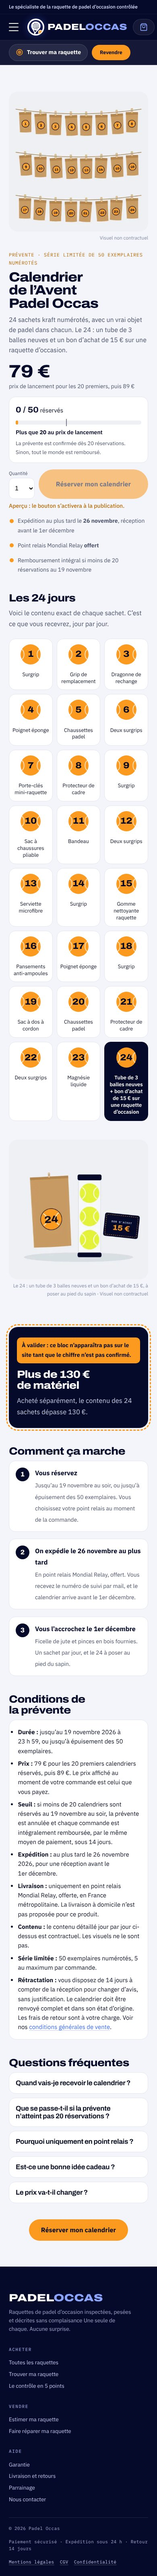
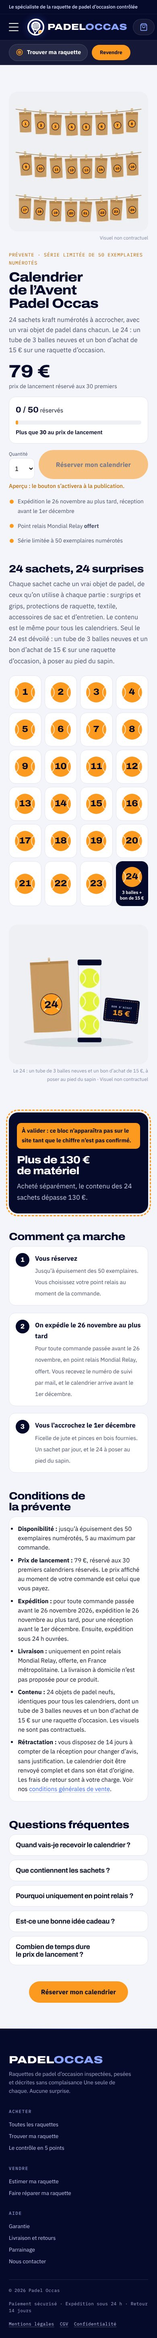
Calendrier de l'Avent v1.1.0 — 30 premiers à 79 €, sans seuil ni date de fin, contenu masqué, prompts images
Claude-Session: https://claude.ai/code/session_019D3zZFY3edwsYLJmSPcafF

diff --git a/padel-occas-avent/page-calendrier-avent-padel.html b/padel-occas-avent/page-calendrier-avent-padel.html
@@ -3,8 +3,8 @@
 [poc_avent_hero]
 
 <section class="poc-av-sec" id="contenu">
-<h2>Les 24 jours</h2>
-<p class="poc-av-intro">Voici le contenu exact de chaque sachet. C’est ce que vous recevrez, jour par jour.</p>
+<h2>24 sachets, 24 surprises</h2>
+<p class="poc-av-intro">Chaque sachet cache un vrai objet de padel, de ceux qu’on utilise à chaque partie : surgrips et grips, protections de raquette, textile, accessoires de sac et d’entretien. Le contenu est le même pour tous les calendriers. Seul le 24 est dévoilé : un tube de 3 balles neuves et un bon d’achat de 15&nbsp;€ sur une raquette d’occasion, à poser au pied du sapin.</p>
 [poc_avent_grille]
 [poc_avent_visuel n="2" legende="Le 24 : un tube de 3 balles neuves et un bon d’achat de 15 €, à poser au pied du sapin"]
 </section>
@@ -17,27 +17,28 @@
 <section class="poc-av-sec" id="fonctionnement">
 <h2>Comment ça marche</h2>
 <ol class="poc-av-etapes">
-<li><strong>Vous réservez</strong><span>Jusqu’au 19 novembre au soir, ou jusqu’à épuisement des 50 exemplaires. Vous choisissez votre point relais au moment de la commande.</span></li>
-<li><strong>On expédie le 26 novembre au plus tard</strong><span>En point relais Mondial Relay, offert. Vous recevez le numéro de suivi par mail, et le calendrier arrive avant le 1er&nbsp;décembre.</span></li>
-<li><strong>Vous l’accrochez le 1er&nbsp;décembre</strong><span>Ficelle de jute et pinces en bois fournies. Un sachet par jour, et le 24 à poser au pied du sapin.</span></li>
+<li><strong>Vous réservez</strong><span>Jusqu’à épuisement des 50 exemplaires. Vous choisissez votre point relais au moment de la commande.</span></li>
+<li><strong>On expédie le 26 novembre au plus tard</strong><span>Pour toute commande passée avant le 26 novembre, en point relais Mondial Relay, offert. Vous recevez le numéro de suivi par mail, et le calendrier arrive avant le 1er&nbsp;décembre.</span></li>
+<li><strong>Vous l’accrochez le 1er décembre</strong><span>Ficelle de jute et pinces en bois fournies. Un sachet par jour, et le 24 à poser au pied du sapin.</span></li>
 </ol>
 </section>
 
 <section class="poc-av-sec" id="conditions">
 <h2>Conditions de la prévente</h2>
 <ul class="poc-av-conditions">
-<li><strong>Durée :</strong> jusqu’au 19 novembre 2026 à 23&nbsp;h&nbsp;59, ou jusqu’à épuisement des 50 exemplaires.</li>
-<li><strong>Prix :</strong> 79 € pour les 20 premiers calendriers réservés, puis 89 €. Le prix affiché au moment de votre commande est celui que vous payez.</li>
-<li><strong>Seuil :</strong> si moins de 20 calendriers sont réservés au 19 novembre au soir, la prévente est annulée et chaque commande est intégralement remboursée, par le même moyen de paiement, sous 14 jours.</li>
-<li><strong>Expédition :</strong> au plus tard le 26 novembre 2026, pour une réception avant le 1er&nbsp;décembre.</li>
+<li><strong>Disponibilité :</strong> jusqu’à épuisement des 50 exemplaires numérotés, 5 au maximum par commande.</li>
+<li><strong>Prix de lancement :</strong> 79&nbsp;€, réservé aux 30 premiers calendriers réservés. Le prix affiché au moment de votre commande est celui que vous payez.</li>
+<li><strong>Expédition :</strong> pour toute commande passée avant le 26 novembre 2026, expédition le 26 novembre au plus tard, pour une réception avant le 1er&nbsp;décembre. Ensuite, expédition sous 24&nbsp;h ouvrées.</li>
 <li><strong>Livraison :</strong> uniquement en point relais Mondial Relay, offerte, en France métropolitaine. La livraison à domicile n’est pas proposée pour ce produit.</li>
-<li><strong>Contenu :</strong> le contenu détaillé jour par jour ci-dessus est contractuel. Les visuels ne le sont pas.</li>
-<li><strong>Série limitée :</strong> 50 exemplaires numérotés, 5 au maximum par commande.</li>
+<li><strong>Contenu :</strong> 24 objets de padel neufs, identiques pour tous les calendriers, dont un tube de 3 balles neuves et un bon d’achat de 15&nbsp;€ sur une raquette d’occasion. Les visuels ne sont pas contractuels.</li>
 <li><strong>Rétractation :</strong> vous disposez de 14 jours à compter de la réception pour changer d’avis, sans justification. Le calendrier doit être renvoyé complet et dans son état d’origine. Les frais de retour sont à votre charge. Voir nos <a href="/cgv/">conditions générales de vente</a>.</li>
 </ul>
 </section>
 
-<section class="poc-av-sec po-faq" id="questions"><h2>Questions fréquentes</h2><!-- poc:faq --><details><summary><h3>Quand vais-je recevoir le calendrier ?</h3></summary><p>Il part au plus tard le 26 novembre en point relais Mondial Relay. Comptez 2 à 4 jours de transport : il arrive avant le 1er&nbsp;décembre. Vous recevez le numéro de suivi par mail dès l’expédition.</p></details><details><summary><h3>Que se passe-t-il si la prévente n’atteint pas 20 réservations ?</h3></summary><p>Si moins de 20 calendriers sont réservés au 19 novembre au soir, la prévente est annulée et chaque commande est intégralement remboursée, par le même moyen de paiement, sous 14 jours. Vous n’avez rien à faire.</p></details><details><summary><h3>Pourquoi uniquement en point relais ?</h3></summary><p>C’est ce qui nous permet de vous offrir la livraison. Vous choisissez le point relais qui vous arrange au moment de la commande, près de chez vous ou de votre travail.</p></details><details><summary><h3>Est-ce une bonne idée cadeau ?</h3></summary><p>Oui, pour tout joueur ou joueuse de padel, débutant comme confirmé : ce sont des objets qu’on utilise à chaque partie. Pour l’offrir, choisissez un point relais proche de la personne et indiquez son nom comme destinataire.</p></details><details><summary><h3>Le prix va-t-il changer ?</h3></summary><p>Les 20 premiers calendriers sont à 79 €, les suivants à 89 €. Le compteur en haut de page indique combien il en reste au prix de lancement. Le prix affiché au moment de votre commande est celui que vous payez.</p></details><!-- /poc:faq --></section>
+<section class="poc-av-sec po-faq" id="questions">
+<h2>Questions fréquentes</h2>
+<!-- poc:faq --><details><summary><h3>Quand vais-je recevoir le calendrier ?</h3></summary><p>Pour toute commande passée avant le 26 novembre, il part le 26 novembre au plus tard en point relais Mondial Relay. Comptez 2 à 4 jours de transport : il arrive avant le 1er&nbsp;décembre. Vous recevez le numéro de suivi par mail dès l’expédition.</p></details><details><summary><h3>Que contiennent les sachets ?</h3></summary><p>Un vrai objet de padel dans chacun : surgrips et grips, protections de raquette, textile, accessoires de sac et d’entretien. On garde la surprise sur le détail. Le 24 est un tube de 3 balles neuves et un bon d’achat de 15&nbsp;€ sur une raquette d’occasion.</p></details><details><summary><h3>Pourquoi uniquement en point relais ?</h3></summary><p>C’est ce qui nous permet de vous offrir la livraison. Vous choisissez le point relais qui vous arrange au moment de la commande, près de chez vous ou de votre travail.</p></details><details><summary><h3>Est-ce une bonne idée cadeau ?</h3></summary><p>Oui, pour tout joueur ou joueuse de padel, débutant comme confirmé : ce sont des objets qu’on utilise à chaque partie. Pour l’offrir, choisissez un point relais proche de la personne et indiquez son nom comme destinataire.</p></details><details><summary><h3>Combien de temps dure le prix de lancement ?</h3></summary><p>Le prix de 79&nbsp;€ est réservé aux 30 premiers calendriers réservés. Le compteur en haut de page indique combien il en reste à ce prix.</p></details><!-- /poc:faq -->
+</section>
 
 <p class="poc-av-cta-bas"><a class="po-btn po-btn--rouge po-btn--lg" href="#reserver">Réserver mon calendrier</a></p>
 

diff --git a/padel-occas-avent/padel-occas-avent.php b/padel-occas-avent/padel-occas-avent.php
@@ -1,8 +1,8 @@
 <?php
 /**
  * Plugin Name: Padel Occas — Prévente Calendrier de l'Avent
- * Description: Prix de lancement automatique (79 € pour les 20 premiers, puis 89 €), compteur sur 50, fin de prévente le 19/11 au soir, point relais seul et offert, grille des 24 jours, lien d'aperçu secret, mise en avant accueil + menu.
- * Version:     1.0.0
+ * Description: Prix de lancement automatique (79 € pour les 30 premiers, puis 89 €), compteur sur 50, vente jusqu'à épuisement, point relais seul et offert, grille des 24 sachets, lien d'aperçu secret, mise en avant accueil + menu.
+ * Version:     1.1.0
  * Author:      Padel Occas
  * License:     GPL v2 or later
  */
@@ -16,11 +16,10 @@ class POC_Avent_Config {
     const SKU            = 'CAL-AVENT-2026';
     const PAGE_SLUG      = 'calendrier-avent-padel';
     const TOTAL          = 50;                     // exemplaires
-    const LANCEMENT_QTE  = 20;                     // les N premiers au prix de lancement
+    const LANCEMENT_QTE  = 30;                     // les N premiers au prix de lancement
     const PRIX_LANCEMENT = 79;
-    const PRIX           = 89;
-    const SEUIL          = 20;                     // en dessous au 19/11 : prévente annulée et remboursée
-    const FIN            = '2026-11-19 23:59:59';  // heure de Paris
+    const PRIX           = 89;                     // affiché seulement une fois les N premiers vendus
+    const EXPEDITION     = '2026-11-26';           // commandes passées avant : expédiées ce jour-là au plus tard
     const MAX_PAR_COMMANDE = 5;
 
     // Interrupteurs. Mettre true au moment de publier, false pour retirer.
@@ -31,7 +30,7 @@ class POC_Avent_Config {
     // Lien d'aperçu secret : /?page_id=<ID>&apercu=<jeton> (et /?apercu=<jeton> pour l'accueil)
     const APERCU = 'tfr_4MhWFUn95gNzG_2WP1DE';
 
-    /** Contenu contractuel, jour par jour */
+    /** Contenu jour par jour : non affiché sur la page (effet surprise), gardé pour la préparation */
     const JOURS = [
         1 => 'Surgrip', 2 => 'Grip de remplacement', 3 => 'Dragonne de rechange', 4 => 'Poignet éponge',
         5 => 'Chaussettes padel', 6 => 'Deux surgrips', 7 => 'Porte-clés mini-raquette', 8 => 'Protecteur de cadre',
@@ -61,7 +60,6 @@ class POC_Avent {
         add_filter( 'woocommerce_product_get_price',         [ $this, 'filter_price' ], 20, 2 );
         add_filter( 'woocommerce_product_get_regular_price', [ $this, 'filter_price' ], 20, 2 );
         add_filter( 'woocommerce_get_price_html',            [ $this, 'price_html' ], 20, 2 );
-        add_filter( 'woocommerce_is_purchasable',            [ $this, 'is_purchasable' ], 20, 2 );
         add_action( 'woocommerce_before_calculate_totals',   [ $this, 'cart_prices' ], 20 );
         add_filter( 'woocommerce_add_to_cart_validation',    [ $this, 'validate_qty' ], 10, 3 );
         add_filter( 'woocommerce_store_api_product_quantity_maximum', [ $this, 'store_api_max' ], 10, 2 );
@@ -114,13 +112,20 @@ class POC_Avent {
         return self::launch_left() > 0 ? POC_Avent_Config::PRIX_LANCEMENT : POC_Avent_Config::PRIX;
     }
 
-    public static function is_over() {
-        $fin = new DateTime( POC_Avent_Config::FIN, new DateTimeZone( 'Europe/Paris' ) );
-        return time() > $fin->getTimestamp();
+    public static function is_open() {
+        return self::sold() < POC_Avent_Config::TOTAL;
     }
 
-    public static function is_open() {
-        return ! self::is_over() && self::sold() < POC_Avent_Config::TOTAL;
+    /** Avant le jour d'expédition groupée ? */
+    public static function before_shipping_day() {
+        $j = new DateTime( POC_Avent_Config::EXPEDITION . ' 00:00:00', new DateTimeZone( 'Europe/Paris' ) );
+        return time() < $j->getTimestamp();
+    }
+
+    public static function shipping_text() {
+        return self::before_shipping_day()
+            ? 'Expédition le 26 novembre au plus tard, réception avant le 1er décembre'
+            : 'Expédition sous 24 h ouvrées';
     }
 
     public static function is_preview() {
@@ -145,13 +150,9 @@ class POC_Avent {
     public function price_html( $html, $product ) {
         if ( ! self::is_calendar( $product ) ) return $html;
         if ( self::launch_left() > 0 ) {
-            return sprintf( '%s <small>prix de lancement, puis %s</small>', self::eur( POC_Avent_Config::PRIX_LANCEMENT ), self::eur( POC_Avent_Config::PRIX ) );
+            return sprintf( '%s <small>prix de lancement réservé aux %d premiers</small>', self::eur( POC_Avent_Config::PRIX_LANCEMENT ), POC_Avent_Config::LANCEMENT_QTE );
         }
         return self::eur( POC_Avent_Config::PRIX );
-    }
-
-    public function is_purchasable( $ok, $product ) {
-        return self::is_calendar( $product ) && self::is_over() ? false : $ok;
     }
 
     /** Dans le panier : les places restantes au prix de lancement, le reste à 89 € */
@@ -189,7 +190,7 @@ class POC_Avent {
 
     public function cart_item_data( $data, $item ) {
         if ( self::is_calendar( $item['data'] ) ) {
-            $data[] = [ 'key' => 'Prévente', 'value' => 'expédition au plus tard le 26 novembre, en point relais (offert)' ];
+            $data[] = [ 'key' => 'Livraison', 'value' => self::shipping_text() . ', en point relais (offert)' ];
         }
         return $data;
     }
@@ -224,10 +225,7 @@ class POC_Avent {
         }
         if ( ! $has || ! $email || ! in_array( $email->id, [ 'customer_processing_order', 'customer_on_hold_order' ], true ) ) return;
 
-        $txt = sprintf(
-            'Prévente du Calendrier de l’Avent : expédition au plus tard le 26 novembre en point relais, pour une réception avant le 1er décembre. Si moins de %d calendriers sont réservés au 19 novembre au soir, la prévente est annulée et vous êtes intégralement remboursé.',
-            POC_Avent_Config::SEUIL
-        );
+        $txt = 'Calendrier de l’Avent Padel Occas : ' . lcfirst( self::shipping_text() ) . ', en point relais Mondial Relay.';
         if ( $plain_text ) {
             echo "\n" . $txt . "\n\n";
         } else {
@@ -318,28 +316,27 @@ class POC_Avent {
           <div class="poc-av-hero__infos">
             <p class="poc-av-eyebrow">Prévente · Série limitée de <?php echo (int) $total; ?> exemplaires numérotés</p>
             <h1>Calendrier de l’Avent Padel&nbsp;Occas</h1>
-            <p class="poc-av-lead">24 sachets kraft numérotés, avec un vrai objet de padel dans chacun. Le 24 : un tube de 3 balles neuves et un bon d’achat de 15 € sur une raquette d’occasion.</p>
+            <p class="poc-av-lead">24 sachets kraft numérotés à accrocher, avec un vrai objet de padel dans chacun. Le 24 : un tube de 3 balles neuves et un bon d’achat de 15&nbsp;€ sur une raquette d’occasion.</p>
 
             <div class="poc-av-prix">
               <span class="poc-av-prix__montant"><?php echo esc_html( self::eur( self::unit_price() ) ); ?></span>
-              <span class="poc-av-prix__note"><?php echo $left > 0 ? 'prix de lancement pour les ' . (int) POC_Avent_Config::LANCEMENT_QTE . ' premiers, puis ' . esc_html( self::eur( POC_Avent_Config::PRIX ) ) : 'prix de prévente'; ?></span>
+              <?php if ( $left > 0 ) : ?><span class="poc-av-prix__note">prix de lancement réservé aux <?php echo (int) POC_Avent_Config::LANCEMENT_QTE; ?> premiers</span><?php endif; ?>
             </div>
 
             <div class="poc-av-compteur">
               <div class="poc-av-compteur__ligne"><strong><?php echo (int) $sold; ?> / <?php echo (int) $total; ?></strong> réservés</div>
-              <div class="poc-av-barre" role="progressbar" aria-valuemin="0" aria-valuemax="<?php echo (int) $total; ?>" aria-valuenow="<?php echo (int) $sold; ?>"><span style="width:<?php echo (int) $pct; ?>%"></span><i style="left:<?php echo (int) round( 100 * POC_Avent_Config::SEUIL / $total ); ?>%"></i></div>
+              <div class="poc-av-barre" role="progressbar" aria-valuemin="0" aria-valuemax="<?php echo (int) $total; ?>" aria-valuenow="<?php echo (int) $sold; ?>"><span style="width:<?php echo (int) $pct; ?>%"></span></div>
               <?php if ( $left > 0 && self::is_open() ) : ?>
                 <p class="poc-av-compteur__reste">Plus que <strong><?php echo (int) $left; ?></strong> au prix de lancement</p>
               <?php endif; ?>
-              <p class="poc-av-compteur__seuil"><?php echo $sold >= POC_Avent_Config::SEUIL ? 'Seuil de ' . (int) POC_Avent_Config::SEUIL . ' réservations atteint : la prévente est confirmée.' : 'La prévente est confirmée dès ' . (int) POC_Avent_Config::SEUIL . ' réservations. Sinon, tout le monde est remboursé.'; ?></p>
             </div>
 
             <?php echo $this->buy_form( $p ); ?>
 
             <ul class="poc-av-rassure">
-              <li>Expédition au plus tard le <strong>26 novembre</strong>, réception avant le 1er décembre</li>
+              <li><?php echo esc_html( self::shipping_text() ); ?></li>
               <li>Point relais Mondial Relay <strong>offert</strong></li>
-              <li>Remboursement intégral si moins de <?php echo (int) POC_Avent_Config::SEUIL; ?> réservations au 19 novembre</li>
+              <li>Série limitée à <?php echo (int) $total; ?> exemplaires numérotés</li>
             </ul>
           </div>
         </section>
@@ -348,9 +345,6 @@ class POC_Avent {
     }
 
     private function buy_form( $p ) {
-        if ( self::is_over() ) {
-            return '<p class="poc-av-statut">La prévente est terminée.</p>';
-        }
         if ( self::sold() >= POC_Avent_Config::TOTAL || ! $p->is_in_stock() ) {
             return '<p class="poc-av-statut">Les 50 calendriers sont réservés. Merci !</p>';
         }
@@ -373,16 +367,13 @@ class POC_Avent {
         );
     }
 
+    /** 24 balles numérotées ; seul le 24 est dévoilé (le contenu des autres reste une surprise) */
     public function sc_grille() {
-        $out = '<ol class="poc-av-grille">';
-        foreach ( POC_Avent_Config::JOURS as $n => $objet ) {
-            $out .= sprintf(
-                '<li class="poc-av-jour%s"><span class="poc-av-jour__sachet">%s</span><span class="poc-av-jour__objet"><span class="screen-reader-text">Jour %d : </span>%s</span></li>',
-                24 === $n ? ' poc-av-jour--24' : '',
-                self::ball( $n ),
-                $n,
-                esc_html( $objet )
-            );
+        $out = '<ol class="poc-av-grille" aria-label="Les 24 sachets du calendrier">';
+        for ( $n = 1; $n <= 24; $n++ ) {
+            $out .= 24 === $n
+                ? '<li class="poc-av-jour poc-av-jour--24">' . self::ball( 24 ) . '<span class="poc-av-jour__objet">3 balles + bon de 15&nbsp;€</span></li>'
+                : sprintf( '<li class="poc-av-jour">%s<span class="screen-reader-text">Sachet %d : surprise</span></li>', self::ball( $n ), $n );
         }
         return $out . '</ol>';
     }
@@ -462,12 +453,12 @@ class POC_Avent {
 .poc-av-rassure li{position:relative;padding-left:22px}
 .poc-av-rassure li::before{content:"";position:absolute;left:2px;top:.45em;width:10px;height:10px;border-radius:50%;background:var(--av-orange)}
 
-.poc-av-grille{list-style:none;padding:0!important;margin:0;display:grid;grid-template-columns:repeat(3,1fr);gap:10px}
+.poc-av-grille{list-style:none;padding:0!important;margin:0;display:grid;grid-template-columns:repeat(4,1fr);gap:8px}
 .poc-av-grille li+li{margin-top:0}
-.poc-av-jour{background:#fff;border:1px solid var(--av-line);border-radius:16px;padding:12px 8px 12px;display:flex;flex-direction:column;align-items:center;text-align:center;gap:8px}
-.poc-av-jour__objet{font-size:13px;line-height:1.3;color:var(--av-ink)}
+.poc-av-jour{background:#fff;border:1px solid var(--av-line);border-radius:16px;padding:12px 6px;display:flex;flex-direction:column;align-items:center;justify-content:center;text-align:center;gap:6px;min-height:84px}
+.poc-av-jour__objet{font-size:13px;line-height:1.3;color:var(--av-ink2)}
 .poc-av-jour--24{background:var(--av-nuit);border-color:var(--av-nuit)}
-.poc-av-jour--24 .poc-av-jour__objet{color:#fff;font-weight:600}
+.poc-av-jour--24 .poc-av-jour__objet{color:#fff;font-weight:600;font-size:11px;line-height:1.25}
 .poc-av-balle{position:relative;display:inline-block;width:52px;height:52px;flex:none}
 .poc-av-balle--lg{width:72px;height:72px}
 .poc-av-balle svg{display:block;width:100%;height:100%}
@@ -502,11 +493,11 @@ class POC_Avent {
 body.po-r .poc-av a.po-btn,body.po-r .poc-av a.po-btn:hover{color:var(--av-nuit);text-decoration:none}
 .poc-av-page .po-contenu>p:empty{display:none}
 
-@media (min-width:600px){.poc-av-grille{grid-template-columns:repeat(4,1fr)}}
+@media (min-width:600px){.poc-av-grille{grid-template-columns:repeat(6,1fr)}}
 @media (min-width:960px){
   .poc-av-hero{grid-template-columns:minmax(0,1.05fr) minmax(0,1fr);gap:48px;align-items:start;padding-top:24px}
   .poc-av-hero__visuel{position:sticky;top:24px}
-  .poc-av-grille{grid-template-columns:repeat(6,1fr);gap:12px}
+  .poc-av-grille{grid-template-columns:repeat(8,1fr);gap:12px}
   .poc-av-etapes{grid-template-columns:repeat(3,1fr)}
   .poc-av-sec{padding-top:64px}
   .poc-av-valeur{padding:36px 40px}

diff --git a/padel-occas-avent/prompts-images-gpt.md b/padel-occas-avent/prompts-images-gpt.md
@@ -1,0 +1,28 @@
+# Prompts images — Calendrier de l'Avent Padel Occas
+
+À coller dans ChatGPT (génération d'image). Format carré 1:1, la plus grande résolution proposée.
+Une fois l'image validée : WooCommerce → Produits → Calendrier de l'Avent → remplacer l'image principale (image 1) ou la 2ᵉ image de la galerie. La page se met à jour toute seule.
+
+## Image 1 — le calendrier accroché (image principale)
+
+Photo produit réaliste, style studio e-commerce haut de gamme, format carré.
+Un calendrier de l'Avent fait main, accroché sur un mur clair : 24 petits sachets en papier kraft brun, tous de la même taille, au haut replié une fois, suspendus par des pinces à linge en bois clair sur trois ficelles de jute horizontales qui pendent légèrement (8 sachets par ficelle, de gauche à droite : 1 à 8, 9 à 16, 17 à 24).
+Sur chaque sachet, un autocollant rond collé au centre : une balle de padel orange vif (#FC9A20) avec ses deux coutures blanches courbes, et au milieu un numéro en chiffres très gras et larges, bleu nuit (#060A2A). Les numéros vont de 1 à 24, chacun une seule fois, bien lisibles.
+Fond uni gris très clair légèrement bleuté (#EEF0F3), lumière douce et diffuse venant de la gauche, ombres légères et nettes sous les sachets, rendu net, couleurs fidèles, pas de flou artistique.
+Cadrage frontal, tout le calendrier visible avec une marge autour.
+Aucun autre texte, aucun logo de marque, aucune personne, aucune décoration de Noël autre qu'une petite branche de sapin discrète posée en bas à droite.
+
+## Image 2 — le jour 24
+
+Photo produit réaliste, style studio e-commerce, format carré, posée sur une surface gris très clair (#EEF0F3) avec un fond uni identique.
+Au centre, un sachet en papier kraft brun plus grand que les autres, au haut replié et fermé par une pince à linge en bois, avec un autocollant rond : une balle de padel orange vif (#FC9A20) aux coutures blanches et le numéro « 24 » en chiffres très gras bleu nuit (#060A2A).
+À côté, un tube transparent de 3 balles de padel jaunes neuves, sans marque visible, et une petite carte bleu nuit (#060A2A) avec un liseré orange pointillé sur laquelle est écrit uniquement « BON D'ACHAT 15 € » en lettres orange.
+Au pied, une petite branche de sapin et quelques aiguilles. Lumière douce, ombres légères, rendu net, couleurs fidèles.
+Aucun autre texte, aucun logo, aucune personne.
+
+## À vérifier sur l'image générée
+
+- Les numéros : 1 à 24, chacun une seule fois, sans chiffre déformé. Les IA se trompent souvent sur ce point ; si un numéro est faux, demander « corrige uniquement les numéros, garde tout le reste identique ».
+- Aucun logo de marque (Head, Bullpadel…) sur les balles ou le tube.
+- Le texte de la carte : exactement « BON D'ACHAT 15 € ».
+- Laisser la mention « Visuel non contractuel » sous l'image sur le site tant que ce n'est pas une photo du vrai calendrier.
